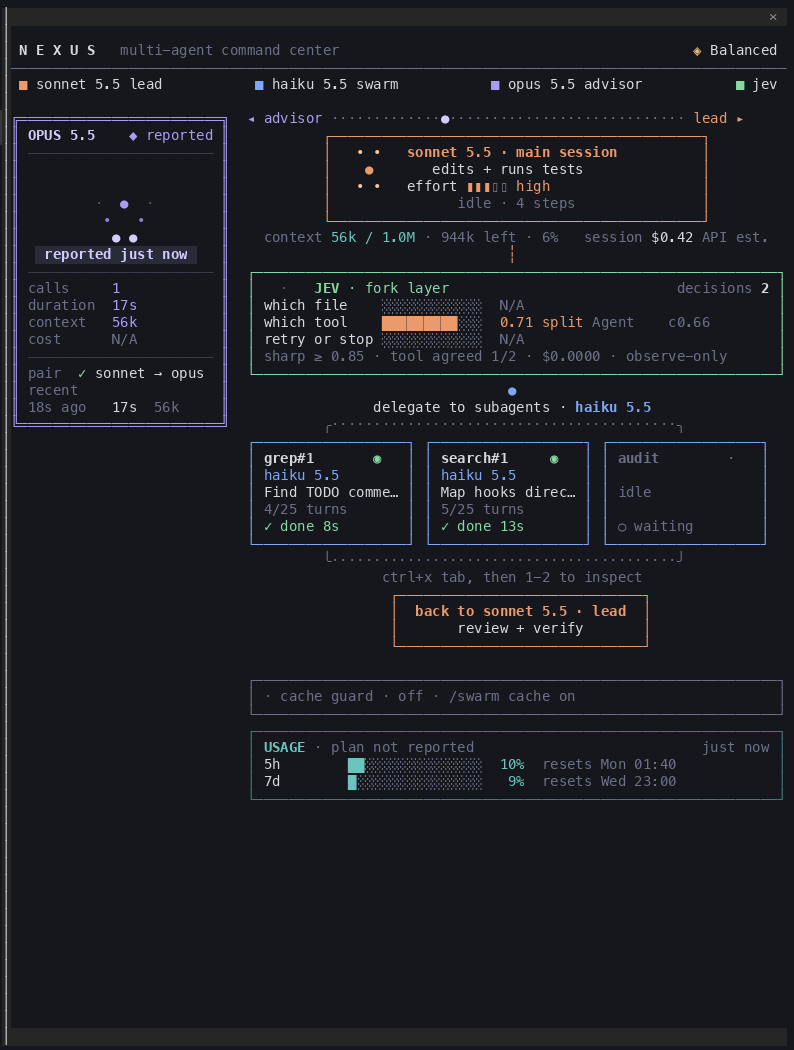
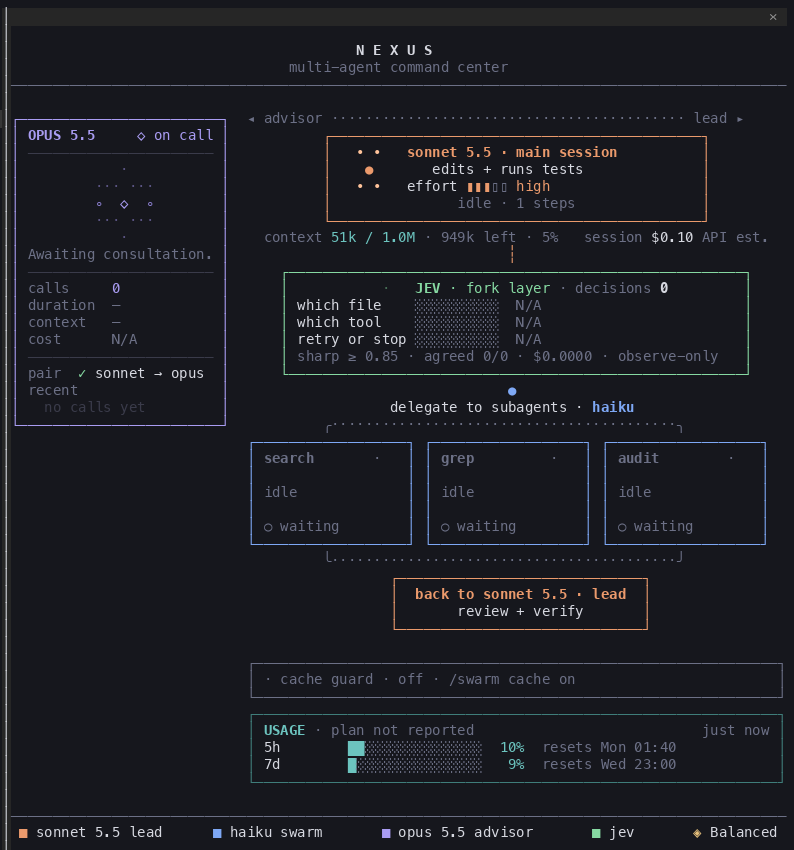
feat(mod): centred NEXUS header, bottom model legend, centred Jev
- NEXUS wordmark centred with 'multi-agent command center' beneath it
- running models and mode move to one horizontal legend at the bottom
- Jev box centred and narrower (56 cols), centred title row with the count
- screenshots refreshed

diff --git a/mod/swarm-ui/hooks/views.tsx b/mod/swarm-ui/hooks/views.tsx
@@ -195,24 +195,30 @@ function Track({ el, width, dots, color }: { el: El; width: number; dots: number
 
 function Header({ el, s, width }: { el: El; s: Snapshot; width: number }) {
   const { Box, Text } = el
+  return (
+    <Box flexDirection="column" width={width} marginTop={1}>
+      <Box justifyContent="center"><Text bold color={C.fg}>N E X U S</Text></Box>
+      <Box justifyContent="center"><Text color={C.dim}>multi-agent command center</Text></Box>
+      <Text color={C.dim}>{'─'.repeat(width)}</Text>
+    </Box>
+  )
+}
+
+/** The running models and the mode, in one row along the bottom of the pane. */
+function ModelLegend({ el, s, width }: { el: El; s: Snapshot; width: number }) {
+  const { Box, Text } = el
   const swatch = (color: string, label: string) => (
     <Text><Text color={color}>■ </Text><Text color={C.fg}>{label}</Text></Text>
   )
   return (
     <Box flexDirection="column" width={width} marginTop={1}>
-      <Box justifyContent="space-between" paddingX={1}>
-        <Text>
-          <Text bold color={C.fg}>N E X U S</Text>
-          <Text color={C.dim}>   multi-agent command center</Text>
-        </Text>
-        <Text><Text color={C.amber}>◈ </Text><Text color={C.fg}>{modeName(s)}</Text></Text>
-      </Box>
       <Text color={C.dim}>{'─'.repeat(width)}</Text>
       <Box justifyContent="space-between" paddingX={1}>
         {swatch(C.orange, `${modelLabel(s.lead.model)} lead`)}
         {swatch(C.blue, `${haikuModel(s)} swarm`)}
         {swatch(C.purple, `${advisorLabel(s)} advisor`)}
         {s.prefs.jev !== 'hidden' && swatch(C.green, 'jev')}
+        <Text><Text color={C.amber}>◈ </Text><Text color={C.fg}>{modeName(s)}</Text></Text>
       </Box>
     </Box>
   )
@@ -384,13 +390,12 @@ function JevBox({ el, s, width }: { el: El; s: Snapshot; width: number }) {
   const isOff = j.status === 'off'
   return (
     <Box flexDirection="column" borderStyle="single" borderColor={isOff ? C.dim : C.green} paddingX={1} width={width}>
-      <Box justifyContent="space-between">
-        <Box gap={1}>
-          <Orbit el={el} palette={PALETTE.jev} sprite={(() => { const r = lastRoute(s); return decisionMini(isOff ? null : r.outcome, r.ms, s.reduceMotion) })()} />
-          <Text><Text bold color={isOff ? C.dim : C.green}>JEV</Text><Text color={isOff ? C.dim : C.green}> · fork layer</Text></Text>
-        </Box>
+      <Box justifyContent="center" gap={1}>
+        <Orbit el={el} palette={PALETTE.jev} sprite={(() => { const r = lastRoute(s); return decisionMini(isOff ? null : r.outcome, r.ms, s.reduceMotion) })()} />
         <Text>
-          <Text color={C.dim}>decisions </Text>
+          <Text bold color={isOff ? C.dim : C.green}>JEV</Text>
+          <Text color={isOff ? C.dim : C.green}> · fork layer</Text>
+          <Text color={C.dim}> · decisions </Text>
           <Text bold color={C.fg}>{isOff ? 'off' : j.decisions.toLocaleString('en-US')}</Text>
         </Text>
       </Box>
@@ -399,7 +404,7 @@ function JevBox({ el, s, width }: { el: El; s: Snapshot; width: number }) {
       ))}
       {j.status === 'on' ? (
         <Text color={C.dim}>
-          sharp ≥ {JEV.threshold} · tool agreed {j.toolAgreed}/{j.toolChecked} · ${j.spentUsd.toFixed(4)} ·{' '}
+          sharp ≥ {JEV.threshold} · agreed {j.toolAgreed}/{j.toolChecked} · ${j.spentUsd.toFixed(4)} ·{' '}
           <Text color={j.routing === 'active' ? C.green : j.routing === 'calibrating' ? C.amber : C.dim} bold={j.routing === 'active'}>
             {j.routing === 'active' ? 'ROUTING ACTIVE' : j.routing === 'calibrating' ? 'calibrating…' : j.routing === 'off' ? 'routing off' : 'observe-only'}
           </Text>
@@ -721,7 +726,7 @@ function Diagram({ el, s, width, act }: { el: El; s: Snapshot; width: number; ac
       </Box>
       <Box justifyContent="center"><TelemetryLine el={el} s={s} /></Box>
       <Box justifyContent="center"><Text color={C.orange}>┆</Text></Box>
-      {s.prefs.jev === 'bars' && <Box justifyContent="center"><JevBox el={el} s={s} width={Math.min(width, 66)} /></Box>}
+      {s.prefs.jev === 'bars' && <Box justifyContent="center"><JevBox el={el} s={s} width={Math.min(width - 4, 56)} /></Box>}
       {s.prefs.jev === 'line' && <Box justifyContent="center"><JevLine el={el} s={s} /></Box>}
       <Box justifyContent="center"><Text color={C.blue}>●</Text></Box>
       <Box justifyContent="center">
@@ -774,6 +779,7 @@ export function PaneFull({ el, s, width, act }: { el: El; s: Snapshot; width: nu
           <Diagram el={el} s={s} width={right} act={act} />
         )}
       </Box>
+      <ModelLegend el={el} s={s} width={width} />
     </Box>
   )
 }
@@ -820,6 +826,7 @@ export function PaneCompact({ el, s, width, act }: { el: El; s: Snapshot; width:
       <InspectBar el={el} s={s} act={act} />
       <CacheGuardBox el={el} s={s} width={width} />
       <UsageBox el={el} s={s} width={width} />
+      <ModelLegend el={el} s={s} width={width} />
     </Box>
   )
 }

diff --git a/mod/swarm-ui/tests/jev.test.ts b/mod/swarm-ui/tests/jev.test.ts
@@ -93,7 +93,7 @@ test('a key from the Keychain: a real answer is drawn with p, confidence and sha
   const pane = await paneText($)
   expect(pane).toMatch(/0\.91 sharp/)
   expect(pane).toMatch(/c0\.81/)
-  expect(pane).toMatch(/tool agreed 1\/1/)
+  expect(pane).toMatch(/agreed 1\/1/)
   expect(await status($)).toMatch(/Jev: on · 1 calls · \$0\.0000 · routing observe/)
 })
 
@@ -103,7 +103,7 @@ test('the environment variable wins over the Keychain', async ($, on) => {
   await $.tool.call({ tool: 'Edit', file_path: '/r/a.ts', old_string: 'a', new_string: 'b' })
   await w.clock.settle()
   expect(w.sent[0]!.auth).toBe('Bearer env_key_1')
-  expect(await paneText($)).toMatch(/tool agreed 0\/1/)
+  expect(await paneText($)).toMatch(/agreed 0\/1/)
 })
 
 test('a split answer is drawn as split, never promoted', async ($, on) => {

diff --git a/mod/swarm-ui/tests/layouts.test.tsx b/mod/swarm-ui/tests/layouts.test.tsx
@@ -128,3 +128,15 @@ test('NEXUS header: the wordmark and running models; the old banner is gone', as
   expect(all).toMatch(/sonnet 5\.5 lead/)
   expect(all).not.toMatch(/CLAUDE CODE SWARM|BUILDS|SWARMS/)
 })
+
+test('NEXUS sits centred on top with its subtitle beneath; the model legend runs along the bottom', async ($, on) => {
+  engine(on)
+  await start($)
+  const all = await texts($, 120)
+  const at = (re: RegExp) => all.search(re)
+  expect(at(/N E X U S/)).toBeLessThan(at(/multi-agent command center/))
+  expect(at(/multi-agent command center/)).toBeLessThan(at(/OPUS 5\.5/))
+  expect(at(/USAGE/)).toBeLessThan(at(/sonnet 5\.5 lead/))
+  expect(at(/sonnet 5\.5 lead/)).toBeLessThan(at(/opus 5\.5 advisor/))
+  expect(all).toMatch(/◈ \n?Balanced/)
+})

diff --git a/CHANGELOG.md b/CHANGELOG.md
@@ -1,7 +1,9 @@
 # Changelog (swarm-ui)
 
 ## 0.4.1 (2026-11-02): NEXUS polish
-- NEXUS branding in the pane: a spaced wordmark header with the mode and running models, with room above it. Command and plugin ids are unchanged.
+- NEXUS branding in the pane: a centred spaced wordmark with its subtitle beneath, and room above it. Command and plugin ids are unchanged.
+- The running models and the mode form one horizontal legend along the bottom of the pane.
+- The JEV box is centred and narrower, with a centred title row.
 - Haiku cards are fixed-size (7 rows). The orbit sits in the top-right corner as a one-row edge-on orbit, the status row is always last, and text is cut with `…`. The floating orbit row above the cards is gone.
 - The advisor panel is grouped into bands (model and status, orbit, stats with placeholders, pair check and recent calls) and ends with its content. At rest, the orbit shows a dim constellation instead of a single glyph.
 - The lead orbit is narrower; the Jev header's decision arc is one row.
